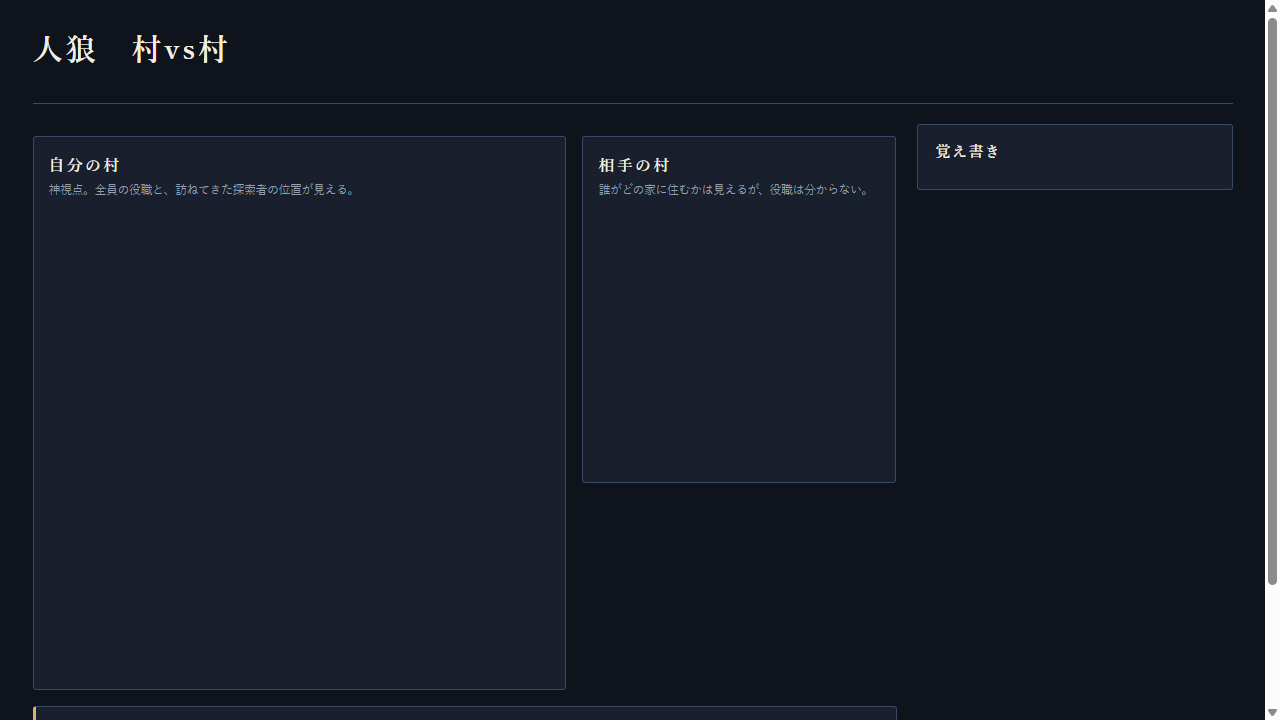
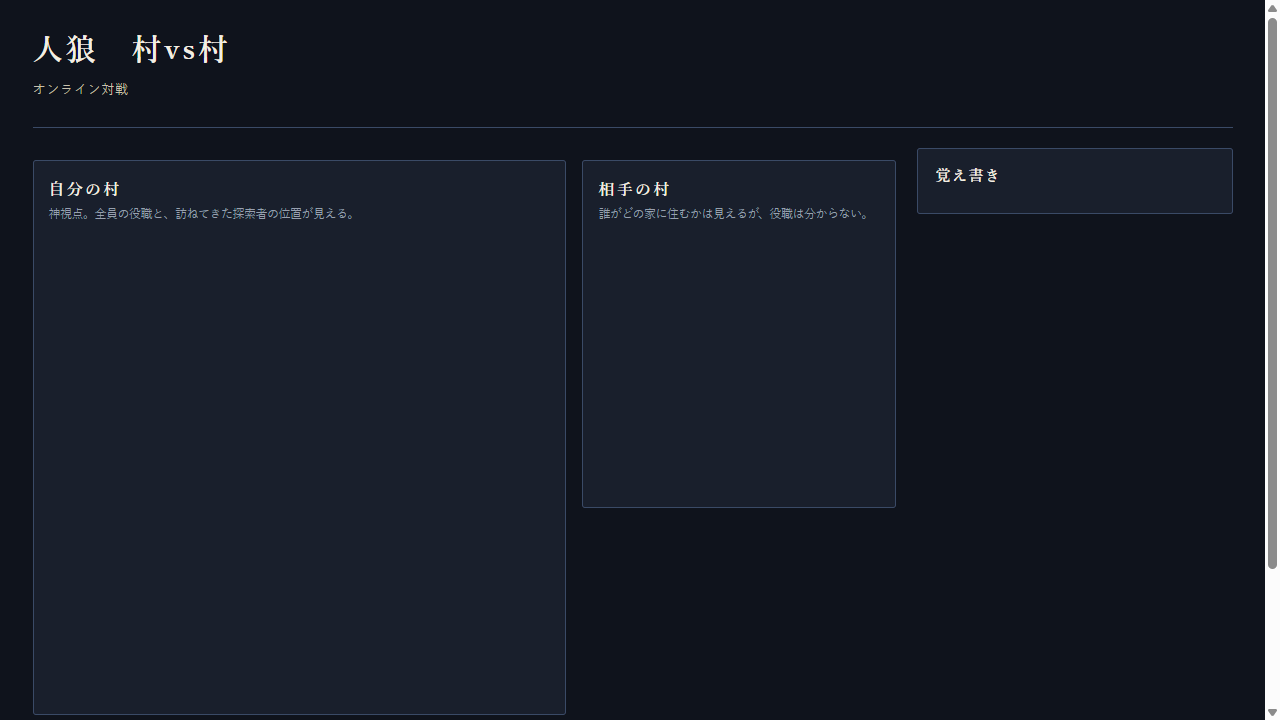
Fix: window関数エクスポート追加とゲスト側初期化修正
【修正1】main.jsにwindow関数エクスポート追加
- window.sync
- window.resolveDay
- window.resolveNight
- window.startDay
- window.showVeilIfNeeded

【修正2】online.jsゲスト側の初期化処理を変更
- sync()呼び出しを削除（モジュールローカル変数Gとwindow.Gの同期問題を回避）
- 直接render()を呼び出してゲーム画面を表示

【テスト結果】
✅ ゲスト側でマップが正しく表示される
✅ ホスト・ゲスト共にゲームデータが正しく同期
✅ 両者ともplace フェーズから開始可能

diff --git a/src/js/online.js b/src/js/online.js
@@ -319,16 +319,17 @@ async function startOnlineGame(room) {
         // ゲーム状態の監視を開始
         subscribeToGameUpdates();
 
-        // 重要: ホスト側と同じようにsync()を呼ぶ
-        // これで showVeilIfNeeded() → hideVeil() → render() が実行される
-        window.sync();
-
         // モードライン更新
         const extra = [];
         if (gameState.game_data.opt.madmanDog) extra.push('狂人＋犬飼い');
         if (gameState.game_data.opt.medium) extra.push('霊媒師');
         document.getElementById('modeline').textContent =
           'オンライン対戦' + (extra.length ? '　／　' + extra.join('・') : '');
+
+        // ベールを隠してゲーム画面を表示
+        document.getElementById('veil').style.display = 'none';
+        document.body.style.overflow = '';
+        window.render();
       } else if (retries < maxRetries) {
         // まだゲーム状態がない場合、500ms後に再試行
         retries++;

diff --git a/src/js/main.js b/src/js/main.js
@@ -1174,6 +1174,11 @@ window.confirmNight = confirmNight;
 window.nextFromMorning = nextFromMorning;
 window.newGame = newGame;
 window.render = render;
+window.sync = sync;
+window.resolveDay = resolveDay;
+window.resolveNight = resolveNight;
+window.startDay = startDay;
+window.showVeilIfNeeded = showVeilIfNeeded;
 window.G = G;
 window.TITLE_OPT = TITLE_OPT;
 
